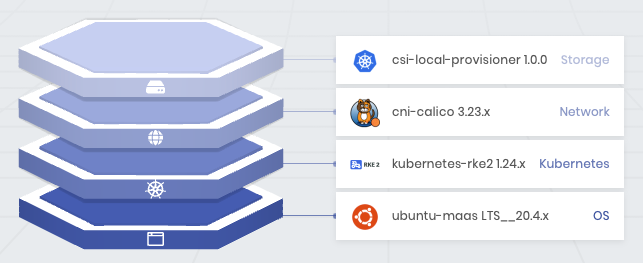
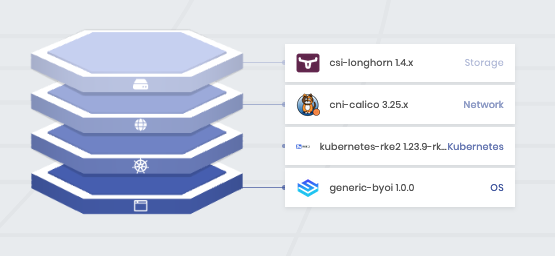
Modify image and add a note for only supported in Edge clusters

Changed region(s): [[0.0306, 0.0625, 0.9802, 0.9688], [0.3676, 0.3125, 0.3982, 0.3438]]

diff --git a/content/docs/06-integrations/00-rke2.md b/content/docs/06-integrations/00-rke2.md
@@ -91,6 +91,8 @@ See the [Cluster Profile](/cluster-profiles/task-define-profile) page for more i
 
 4. You will be able to confirm and view the Cluster Details Status from the Overview page.
 
+**Note: RKE is supported only on the Edge clusters**
+
 ![RKE2 Kubernetes](/rke2-cluster-profile.png)<p></p><br />
 
 <br />
